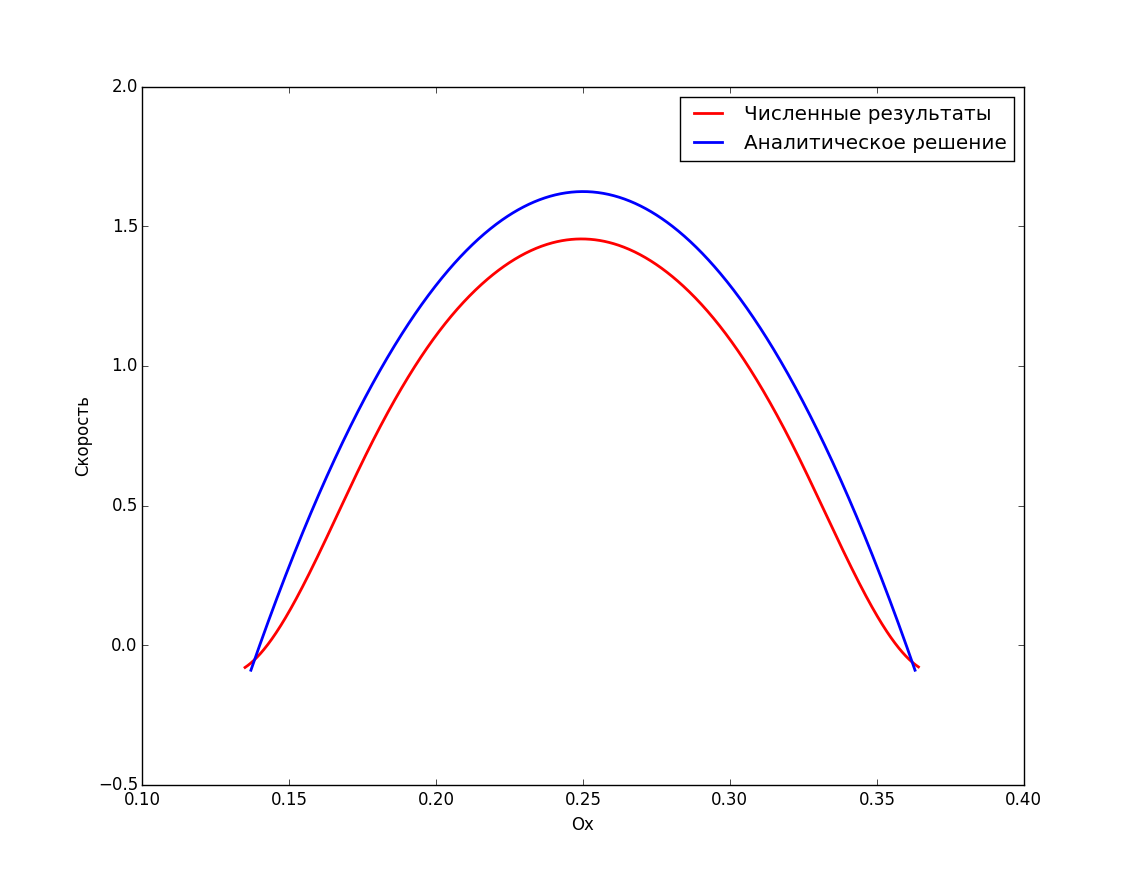
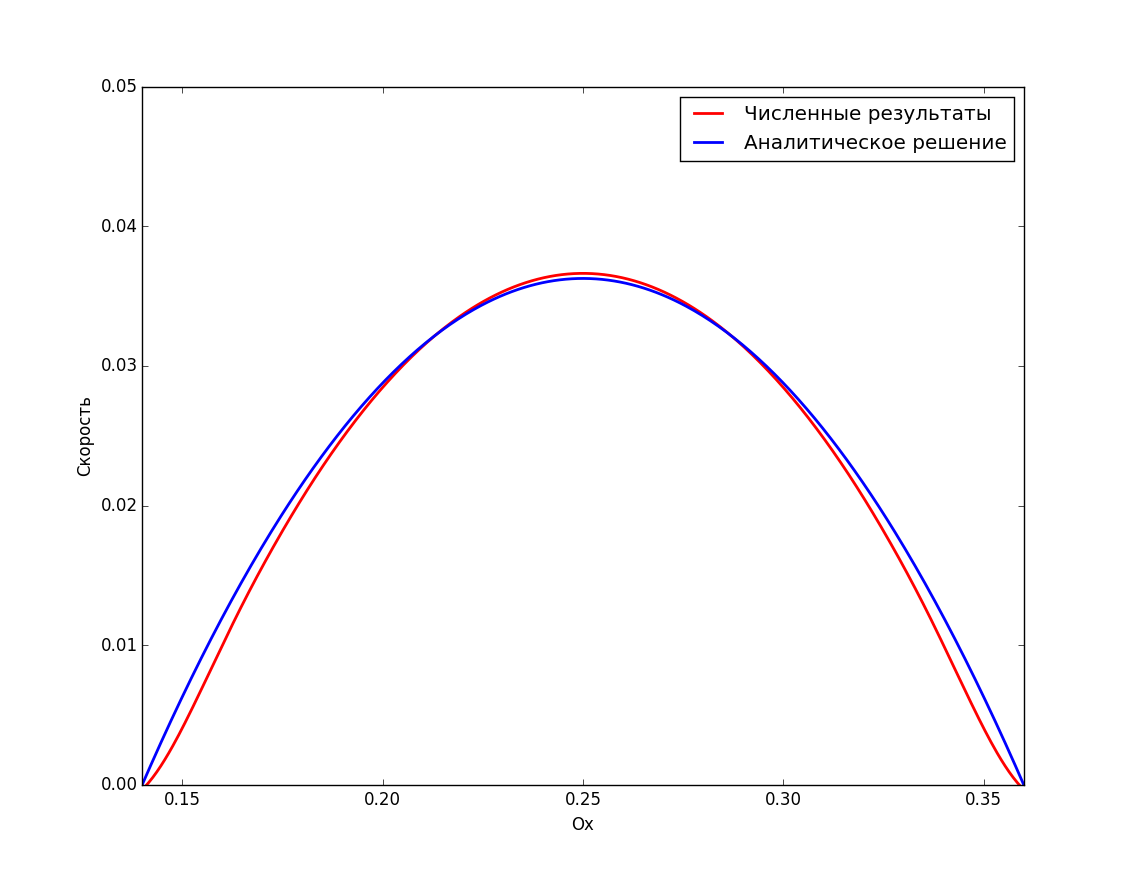
Improvements for synopsis

diff --git a/text/Synopsis/content.tex b/text/Synopsis/content.tex
@@ -243,7 +243,7 @@ $\Gamma_3$. Для того, чтобы решить эту проблему, в
 
 \begin{figure}[h]
   \center
-  \includegraphics [width=15cm] {aorta_valve_scheme.png}
+  \includegraphics [width=0.9\textwidth] {aorta_valve_scheme.png}
   \caption{Изображение границ расчетной области}
   \label{img:boundaries}
 \end{figure}
@@ -410,48 +410,72 @@ Matplotlib.
 стенками, а также решению задачи о развитии аневризмы на стенке кровеносного
 сосуда.
 
-В \textbf{параграфе 2.1} представлено решение тестовой задачи о течении вязкой
-несжимаемой однородной жидкости под воздействием перепада давления внутри
-канала цилиндрической формы. Приведены результаты расчетов для разных
-параметров сетки, на Рис. \ref{img:velocity_profile} показано сравнение
-рассчитанной скорости в центре канала с соответствующим аналитическим решением.
-\begin{figure}[h]
+В \textbf{параграфе 2.1} представлено решение тестовой безразмерной задачи о течении вязкой
+несжимаемой однородной жидкости под воздействием перепада давления $\triangle P = 0.1$ внутри
+канала цилиндрической формы длинной $l = 1$, радиусом $r = 0.25$. Жесткость стенок канала $k = 10^{3}$,
+что для данной задачи эквивалено жесткой недеформируемой стенке.  На Рис. \ref{img:velocity_profile}
+показано сравнение профиля рассчитанной скорости в центре канала с соответствующим аналитическим
+решением для шага $0.001$. % разница 6.3\%.
+\begin{wrapfigure}{L}{0.5\textwidth}
   \center
-  \includegraphics [width=16cm] {velocity_profile.png}
+  \includegraphics [width=0.4\textwidth] {velocity_profile.png}
   \caption{Сравнение профиля скорости, полученной в расчетах, с аналитическим решением}
   \label{img:velocity_profile}
-\end{figure}
+\end{wrapfigure}
 
-В \textbf{параграфе 2.2} описаны результаты решения задачи о моделировании
-возникновения аневризмы на стенках кровеносного сосуда.  Постановка задачи
-аналогична описанной в \textbf{главе 1}, но т.к. исследуется явление аневризмы,
-в сосуде отсутствует клапан (см. Рис. \ref{img:aneurysm_boundaries}).  На
-стенках сосуда выделена область $\Gamma_5$, жесткость которой меньше,
-чем жесткотсть остальной части сосуда. Это позволяет моделировать истончение стенки
-сосуда и возникновение аневризмы под воздействием давления жидкости.
-
-\begin{figure}[h]
+\begin{figure}[H]
   \center
-  \includegraphics [width=14cm] {aneurysm_schema.png}
+  \includegraphics [width=0.9\textwidth] {aneurysm_schema.png}
   \caption{Изображение границ расчетной области}
   \label{img:aneurysm_boundaries}
 \end{figure}
 
-Были получены результаты для сосудов различных форм и различных параметров текущей жидкости.
+В \textbf{параграфе 2.2} описаны результаты решения задачи о моделировании
+возникновения аневризмы на стенках кровеносного сосуда.  Постановка задачи
+аналогична описанной в \textbf{главе 1}. Т.к. основным объектом исследования является аневризма стенки сосуда,
+в задаче отсутствует клапан (см. Рис. \ref{img:aneurysm_boundaries}). На
+стенках сосуда выделена область $\Gamma_5$, жесткость которой меньше,
+чем жесткотсть остальной части сосуда. Это позволяет моделировать истончение стенки
+сосуда и возникновение аневризмы под воздействием давления жидкости.
+
+Были получены результаты для сосудов различных форм и различных параметров текущей жидкости
+с целью выяснить, при каких начальных данных возникновение аневризмы неизбежно и какие факторы
+наиболее сильно на это влияют.
+На Рис. \ref{img:aneurysm_geom3} показана динамика возникновения аневризмы на изгибе сосуда
+цилиндрической формы радиуса $r=0.25$ с постоянным перепадом давления $\triangle P=10$.
+При данных параметрах возникающая аневризма обладает достаточно симметричной стабильной формой.
 
 \begin{figure}[h]
   \center
-  \includegraphics [width=14cm] {aneurysm_geom3.png}
-  \caption{Динамика развития аневризмы изогнутого сосуда}
+  \includegraphics [width=0.45\textwidth] {aneurysm_geom3_0.png}
+  \includegraphics [width=0.45\textwidth] {aneurysm_geom3_2.png}
+  \caption{Динамика развития аневризмы стенок изогнутого сосуда}
   \label{img:aneurysm_geom3}
 \end{figure}
 
-В \textbf{параграфе 2.3} приведены результаты моделирования движения тробма в сосудах
-с разной степенью стеноза.
+Расчеты, проведенные для пульсового перепада давления и наличия примеси демонстрируют, что
+развитие аневризмы в данных условиях сильнее зависит от начальных данных, т.к. стенка сосуда
+не испытывает постоянного давления (см. Рис. \ref{img:aneurysm_geom1}).
 
 \begin{figure}[h]
   \center
-  \includegraphics [width=14cm] {strong_stenosis.png}
+  \includegraphics [width=0.45\textwidth] {admixture_geom1_0.png}
+  \includegraphics [width=0.45\textwidth] {admixture_geom1_1.png}
+  \caption{Динамика развития аневризмы стенок изогнутого сосуда при наличии примеси и пульсового давления}
+  \label{img:aneurysm_geom1}
+\end{figure}
+
+В \textbf{параграфе 2.3} приведены результаты моделирования движения тробма в сосудах
+с разной степенью стеноза. Тромб в расчетах моделируется в виде сгустка примеси высокой
+плотности и вязкости, который движется в сосуде. В расчетах получилось обнаружить ситуацию,
+когда тромб забивает сосуд на протяжении длительного времени, пока не будет размыт набегающим
+потоком жидкости. На Рис. \ref{img:strong_stenosis} показан один из таких расчетов, где
+перепад давления $\triangle P = 6$, $\mu = 6$, $\rho = 2.5$.
+
+\begin{figure}[h]
+  \center
+  \includegraphics [width=0.45\textwidth] {strong_stenosis_0.png}
+  \includegraphics [width=0.45\textwidth] {strong_stenosis_1.png}
   \caption{Динамика движения тромба при наличии стеноза сильной степени}
   \label{img:strong_stenosis}
 \end{figure}
@@ -461,56 +485,112 @@ Matplotlib.
 вязкой несжимаемой неоднородной жидкости, a также верификации описанной модели.
 Приводятся результаты расчетов работы клапана, их сравнение с
 экспериментальными данными, а также сравнение с результатами, полученными в
-других работах.  Постановка задачи аналогична описанной в \textbf{главе 1}, где
-поверхность сосуда является твердой стенкой.  Схема расположения клапана
-изображена на Рис.
-\ref{img:aorta_boundaries}
+других работах.  Постановка задачи аналогична описанной в \textbf{главе 1}.
+Т.к. в данном случае объектом исследования является клапан, стенки сосуда являются
+абсолютно жесткими. Схема расположения клапана изображена на Рис. \ref{img:aorta_boundaries}
 
 \begin{figure}[h]
   \center
-  \includegraphics [width=14cm] {aorta_valve_scheme.png}
+  \includegraphics [width=0.8\textwidth] {aorta_valve_scheme_flat_computation.png}
   \caption{Изображение границ расчетной области}
   \label{img:aorta_boundaries}
 \end{figure}
 
 В \textbf{параграфе 3.1} представлены результаты решения задачи о динамике
-искусственного сердечного клапана для случая однородной и неоднородной жидкости
-(см. Рис \ref{img:ideal_valve_dynamics}).
+искусственного сердечного клапана для случая однородной и неоднородной жидкости.
+На Рис. \ref{img:ideal_valve_dynamics} показана динамика движения лепестков клапана
+с жесткостью $k_s=5 \cdot 10^3, k_b=5 \cdot 10^{3}$ под воздействием перепада
+давления $\triangle P = 6$ однородной жидкости $\mu = 0.01, \rho=1$.
 
 \begin{figure}[H]
   \center
-  \includegraphics [width=8cm] {valve_1.png}
-
-  \includegraphics [width=8cm] {valve_2.png}
-
-  \includegraphics [width=8cm] {valve_3.png}
-  \caption{Динамика деформации лепестков клапана}
+  \includegraphics [width=0.45\textwidth] {valve_1.png}
+  \includegraphics [width=0.45\textwidth] {valve_2.png}
+  \caption{Динамика деформации лепестков клапана в начальный момент времени, и в момент наибольшего раскрытия}
   \label{img:ideal_valve_dynamics}
+\end{figure}
+
+Т.к. характеристики потока жидкости имеют непосредственное влияние на динамику клапана,
+были провередены расчеты, демонстрирующие распределение примеси в сосуде
+после нескольких циклов работы клапана. В начальный момент времени сосуд равномерно заполнен
+примесью, которая составляет 45\% от общего объема и имеет параметры $\rho_1 = 1.2, \mu_1=0.02$.
+Итоговое распределение примеси после трех циклов работы клапана имеет пульсовый характер
+и представлено на Рис. \ref{img:admixture_distribution}).
+
+\begin{figure}[H]
+  \center
+  \includegraphics [width=0.45\textwidth] {valve_in_mixture1.png}
+  \includegraphics [width=0.45\textwidth] {valve_in_mixture2.png}
+  \caption{Распределение примеси в сосуда после трех циклов работы клапана}
+  \label{img:admixture_distribution}
 \end{figure}
 
 В \textbf{параграфе 3.2} описаны результаты решения задачи динамике
 искусственного сердечного клапана <<Юнилайн>> для случая однородной и
-неоднородной жидкости (см. Рис \ref{img:uniline_valve_dynamics}).
+неоднородной жидкости. Приведены сравнения полученных результатов с экспериментальными данными,
+а также с результатами других авторов.
+
+Моделирование клапана <<Юнилайн>> отличается более реалистичной геометрией лепестков а также наличием
+фиброзного кольца и гибких стоек, к которым крепятся лепески. На Рис. \ref{img:uniline}
+приведена динамика клапана с жесткостью $k_s=8 \cdot 10^{3}, k_b=2.5 \cdot 10^{3}$ в потоке
+набегающей жидкости с параметрами $\rho = 1, \mu = 0.01$ и перепадом давления $\triangle P = 7$.
+
+%\begin{wrapfigure}{L}{0.5\textwidth}
+\begin{figure}{H}
+  \center
+  \includegraphics [width=0.5\textwidth] {real_valve1_1.png}
+  \includegraphics [width=0.5\textwidth] {real_valve2_1.png}
+  \caption{Динамика работы клапана <<Юнилайн>>}
+  \label{img:uniline}
+\end{figure}
+%\end{wrapfigure}
+
+Для верификации модели было проведено сравнение результатов расчета в размерных переменных расхода жидкости
+с аналогичными данными из работы Griffith B.E.\footnote{Griffith B.E., Immersed boundary model of aortic heart
+valve dynamics with physiological driving and loading conditions. // Int J Numer Meth Biomed Eng, 28:317-345, 2012}
+\begin{figure}[H]
+  \center
+  \includegraphics [width=0.8\textwidth] {flow_rate_comparison_with_legend.png}
+  \caption{Графики расхода жидкости в проведенных расчетах с данными других авторов}
+  \label{img:flow_rate_griffith}
+\end{figure}
+
+На Рис. \ref{img:flow_rate_griffith} показаны результаты сравнения. Расчеты
+были проведены для реальных параметров крови и физиологичного давления.
+Сравнение демонстрирует достаточно хороший уровень совпадения, несмотря на
+некоторые отличия (например, наличие фиброзного кольца в наших расчетах, или
+отсутствие синусов вальсальвы).
+
+Помимо этого было проведено сравнение с экспериментальными данными, полученными
+на стенде Pulse Duplicator System от Vivitro Labs на базе ФГБУ НИИ КПССЗ СО РАМН, г. Кемерово.
+На Рис. \ref{img:flow_rate_experiment} показаны результаты сравнения, где видно, что расход достаточно хорошо
+совпадает в фазах открытия и закрытия клапана, но графики различаются в фазе полного раскрытия.
 
 \begin{figure}[H]
   \center
-  \includegraphics [width=8cm] {valve_in_mixture1.png}
-
-  \includegraphics [width=8cm] {valve_in_mixture2.png}
-
-  \includegraphics [width=8cm] {valve_in_mixture3.png}
-  \caption{Динамика деформации лепестков клапана}
-  \label{img:uniline_valve_dynamics}
+  \includegraphics [width=0.6\textwidth] {flowrate_experiment_with_legend.png}
+  \caption{Графики расхода жидкости в проведенных расчетах с экспериментальными данными}
+  \label{img:flow_rate_experiment}
 \end{figure}
-
-Приведены сравнения полученных результатов с экспериментальными данными,
-а также с результатами других авторов\footnote{ Griffith B.E., Immersed boundary model of aortic heart
-    valve dynamics with physiological driving and loading conditions. // Int J
-    Numer Meth Biomed Eng, 28:317-345, 2012 }.
 
 В \textbf{параграфе 3.3} приведены результаты исследования зависимости
 распределения напряжения по поверхности искусственного клапана <<Юнилайн>>
-в зависимости от параметров жидкости и наличия примесей в ней.
+в зависимости от параметров жидкости и наличия примесей в ней. Этот аспект часто
+игнорируется в научных работах, однако как показано в работе, он достаточно важен.
+На Рис. \ref{img:force_distribution} приведены графики напряжения в некоторых характерных
+точках клапана для случаев его работы в однородной и неоднородной жидкости.
+
+\begin{figure}[H]
+  \center
+  \includegraphics [width=0.45\textwidth] {forces_active_point.png}
+  \includegraphics [width=0.45\textwidth] {forces_boundary_point.png}
+  \caption{Напряжение на характерных точках клапана для расчетов без примеси и с ее наличием в сосуде}
+  \label{img:force_distribution}
+\end{figure}
+
+Как видно из графиков, наличие примеси снижает напряжение, делая его перепады меньше и внося небольшое
+смещение по времени относительно циклов работы клапана. Это показыват, что факт наличия неоднородностей
+любого характера в крови может серьезно влиять на работу клапана.\\
 
 В \textbf{заключении} приводятся основные результаты работы:
 \begin{enumerate}
@@ -523,7 +603,6 @@ Matplotlib.
  \item Наличие примеси в жидкости непосредственно влияет на напряжения, возникаюшие
      при деформации створок и фиброзного кольца искусственного клапана
 \end{enumerate}
-
 
 %\newpage
 \renewcommand{\refname}{\Large Публикации автора по теме диссертации}
